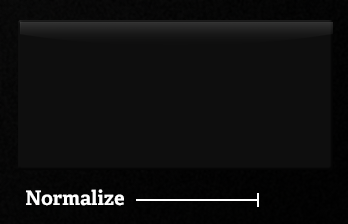
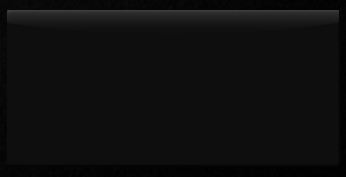
Changeddeck image

Changed region(s): [[0.0, 0.0565, 0.9827, 0.113], [0.0578, 0.8192, 0.7514, 0.9322]]

diff --git a/convolver.js b/convolver.js
@@ -11,8 +11,8 @@ define(['require', 'github:janesconference/KievII@jspm0.5/dist/kievII'], functio
         version: '0.0.1-alpha1',
         ui: {
             type: 'canvas',
-            width: 348,
-            height: 224
+            width: 346,
+            height: 177
         }
     };
 
@@ -41,15 +41,6 @@ define(['require', 'github:janesconference/KievII@jspm0.5/dist/kievII'], functio
         this.viewWidth = args.canvas.width;
         this.viewHeight = args.canvas.height;
         this.canvas = args.canvas;
-
-        /*this.handler = args.OSCHandler;
-
-        var oscCallback = function (message) {
-           console.log ("KSP-001 received message: ", message);
-           var dest = message.toString();
-        }.bind(this);
-
-        this.handler.setCallback(oscCallback); */
 
         // Member methods
         this.drop = function (evt) {
